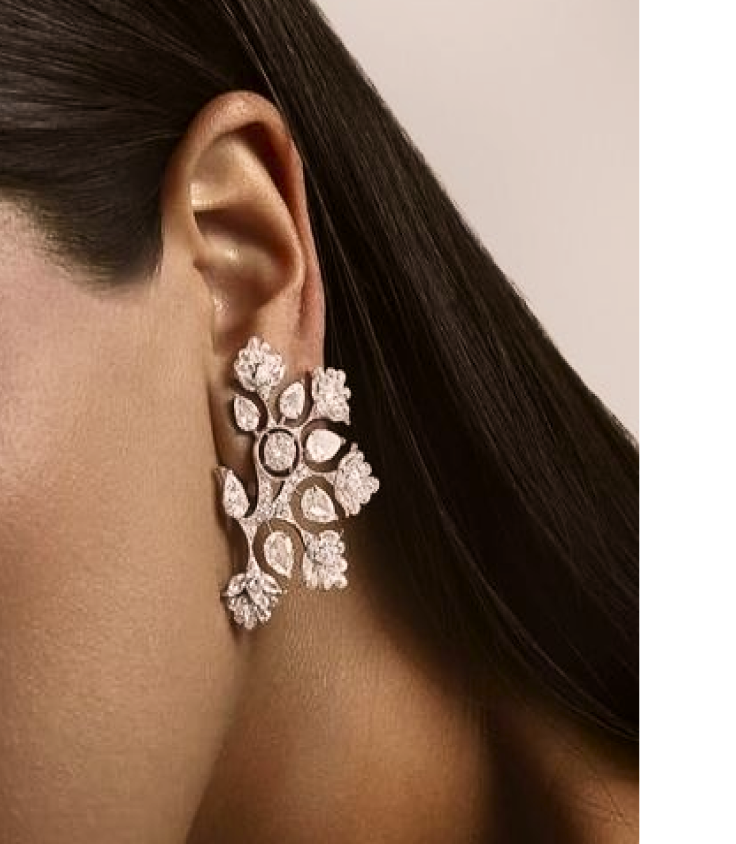
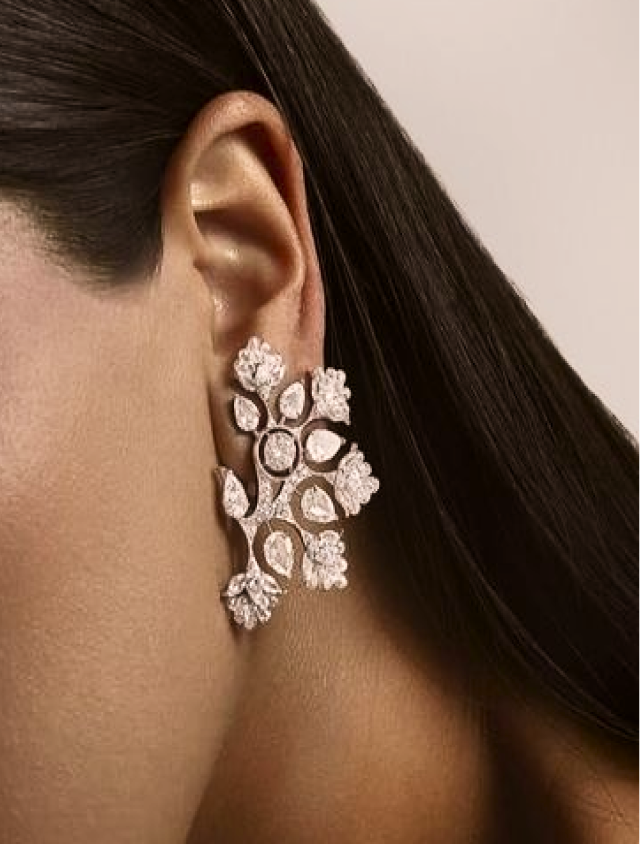
UI fixes

diff --git a/web/src/features/products/components/detail/ProductDetailSidebar.tsx b/web/src/features/products/components/detail/ProductDetailSidebar.tsx
@@ -32,6 +32,7 @@ import PlusIcon from "@/assets/Icons/PlusIcon";
 import VanIcon from "@/assets/Icons/VanIcon";
 import StoreIcon from "@/assets/Icons/StoreIcon";
 import Reveal from "@/shared/Animation/Reveal";
+import ProductDetailAccordions from "./ProductDetailAccordions";
 
 type ProductDetailSidebarProps = {
   product: Product;
@@ -60,7 +61,6 @@ const ProductDetailSidebar = ({
   const [isDeliveryStoreOpen, setIsDeliveryStoreOpen] = useState(false);
   const [isGift, setIsGift] = useState(false);
   const [zipCode, setZipCode] = useState("122002");
-  const [openAccordion, setOpenAccordion] = useState<string | null>(null);
   const [isVideoCallOpen, setIsVideoCallOpen] = useState(false);
   const [isTryAtHomeOpen, setIsTryAtHomeOpen] = useState(false);
   const [isPersonaliseOpen, setIsPersonaliseOpen] = useState(false);
@@ -68,10 +68,6 @@ const ProductDetailSidebar = ({
   const wishlisted = isWishlisted(product.id);
 
   const activeMetal = content.metalColors.find((color) => color.id === selectedMetal);
-
-  const toggleAccordion = (id: string) => {
-    setOpenAccordion((current) => (current === id ? null : id));
-  };
 
   const purchaseSection = (
     <div className="flex flex-col gap-40 px-4 pt-8 md:pt-6 md:px-0 lg:pt-0">
@@ -310,53 +306,7 @@ const ProductDetailSidebar = ({
         </div>
       </section>
 
-      <section aria-label="Product information" className="flex flex-col gap-3">
-        {content.accordions.map((accordion) => {
-          const isOpen = openAccordion === accordion.id;
-
-          return (
-            <div key={accordion.id} className="flex flex-col lg:gap-3 gap-2">
-              <Reveal as="button" direction="up"
-                type="button"
-                aria-expanded={isOpen}
-                onClick={() => toggleAccordion(accordion.id)}
-                className="flex lg:h-14 h-[40px] items-center justify-between text-left"
-              >
-                <span className="font-gill lg:text-2xl text-xl font-normal leading-110 text-darkblack">
-                  {accordion.title}
-                </span>
-                {isOpen ? (
-                  <span className="inline-flex size-[32px] shrink-0 items-center justify-center p-[6px]" aria-hidden>
-                    <Image
-                      src="/images/products/pdp/accordion-minus.svg"
-                      alt=""
-                      width={12}
-                      height={12}
-                      className="size-[12px] object-contain"
-                    />
-                  </span>
-                ) : (
-                  <span className="inline-flex size-[32px] shrink-0 items-center justify-center p-[6px]" aria-hidden>
-                    <Image
-                      src="/images/products/pdp/accordion-plus.svg"
-                      alt=""
-                      width={12}
-                      height={12}
-                      className="size-[12px] object-contain"
-                    />
-                  </span>
-                )}
-              </Reveal>
-              {isOpen ? (
-                <Reveal as="p" direction="up" className="pb-3 font-gill text-base font-light leading-110 text-neutral500">
-                  {accordion.content}
-                </Reveal>
-              ) : null}
-              <Reveal direction="up" className="h-px bg-neutral300" aria-hidden />
-            </div>
-          );
-        })}
-      </section>
+      <ProductDetailAccordions items={content.accordions} />
 
       <section
         aria-label="Personalisation"

diff --git a/web/src/shared/Animation/Reveal.tsx b/web/src/shared/Animation/Reveal.tsx
@@ -3,6 +3,8 @@
 import {
     ComponentPropsWithoutRef,
     ElementType,
+    useMemo,
+    type ComponentType,
 } from "react";
 import { motion } from "motion/react";
 
@@ -20,6 +22,18 @@ type RevealProps<T extends ElementType = "div"> = {
     ease?: "linear" | "easeIn" | "easeOut" | "easeInOut";
 } & ComponentPropsWithoutRef<T>;
 
+// Cache motion wrappers so accordion/state updates don't remount siblings.
+const motionComponentCache = new Map<ElementType, ComponentType<Record<string, unknown>>>();
+
+function getMotionComponent(tag: ElementType) {
+    const cached = motionComponentCache.get(tag);
+    if (cached) return cached;
+
+    const created = motion.create(tag) as ComponentType<Record<string, unknown>>;
+    motionComponentCache.set(tag, created);
+    return created;
+}
+
 export default function Reveal<T extends ElementType = "div">({
     as,
     direction = "up",
@@ -33,7 +47,8 @@ export default function Reveal<T extends ElementType = "div">({
     children,
     ...props
 }: RevealProps<T>) {
-    const Component = motion.create(as || "div");
+    const tag = as || "div";
+    const Component = useMemo(() => getMotionComponent(tag), [tag]);
 
     const initial = {
         opacity: 0,
@@ -75,76 +90,3 @@ export default function Reveal<T extends ElementType = "div">({
         </Component>
     );
 }
-
-// "use client";
-
-// import { motion } from "motion/react";
-// import {
-//     ComponentPropsWithoutRef,
-//     ElementType,
-// } from "react";
-
-// type Direction = "up" | "down" | "left" | "right";
-
-// type RevealProps<T extends ElementType> = {
-//     as?: T;
-//     direction?: Direction;
-//     delay?: number;
-//     duration?: number;
-//     distance?: number;
-//     once?: boolean;
-//     amount?: number;
-// } & ComponentPropsWithoutRef<T>;
-
-// export default function Reveal<T extends ElementType = "div">({
-//     as,
-//     direction = "up",
-//     delay = 0,
-//     duration = 0.8,
-//     distance = 40,
-//     once = true,
-//     amount = 0.2,
-//     children,
-//     ...props
-// }: RevealProps<T>) {
-//     const Component = motion.create(as || "div");
-
-//     const initial = {
-//         opacity: 0,
-//         x:
-//             direction === "left"
-//                 ? -distance
-//                 : direction === "right"
-//                     ? distance
-//                     : 0,
-//         y:
-//             direction === "up"
-//                 ? distance
-//                 : direction === "down"
-//                     ? -distance
-//                     : 0,
-//     };
-
-//     return (
-//         <Component
-//             initial={initial}
-//             whileInView={{
-//                 opacity: 1,
-//                 x: 0,
-//                 y: 0,
-//             }}
-//             viewport={{
-//                 once,
-//                 amount,
-//             }}
-//             transition={{
-//                 duration,
-//                 delay,
-//                 ease: "easeInOut",
-//             }}
-//             {...props}
-//         >
-//             {children}
-//         </Component>
-//     );
-// }

diff --git a/web/src/features/products/components/detail/ProductDetailAccordions.tsx b/web/src/features/products/components/detail/ProductDetailAccordions.tsx
@@ -1,0 +1,75 @@
+"use client";
+
+import { useState } from "react";
+import Image from "next/image";
+import { cn } from "@/shared/utils/cn";
+import type { ProductDetailAccordion } from "@/features/products/types/productDetail";
+
+type ProductDetailAccordionsProps = {
+  items: ProductDetailAccordion[];
+};
+
+const ProductDetailAccordions = ({ items }: ProductDetailAccordionsProps) => {
+  const [openAccordion, setOpenAccordion] = useState<string | null>(null);
+
+  const toggleAccordion = (id: string) => {
+    setOpenAccordion((current) => (current === id ? null : id));
+  };
+
+  return (
+    <section aria-label="Product information" className="flex flex-col gap-3">
+      {items.map((accordion) => {
+        const isOpen = openAccordion === accordion.id;
+
+        return (
+          <div key={accordion.id} className="flex flex-col">
+            <button
+              type="button"
+              aria-expanded={isOpen}
+              aria-controls={`product-accordion-${accordion.id}`}
+              id={`product-accordion-trigger-${accordion.id}`}
+              onClick={() => toggleAccordion(accordion.id)}
+              className="flex h-[40px] items-center justify-between text-left lg:h-14"
+            >
+              <span className="font-gill text-xl font-normal leading-110 text-darkblack lg:text-2xl">
+                {accordion.title}
+              </span>
+              <span className="inline-flex size-[32px] shrink-0 items-center justify-center p-[6px]" aria-hidden>
+                <Image
+                  src={
+                    isOpen
+                      ? "/images/products/pdp/accordion-minus.svg"
+                      : "/images/products/pdp/accordion-plus.svg"
+                  }
+                  alt=""
+                  width={12}
+                  height={12}
+                  className="size-[12px] object-contain"
+                />
+              </span>
+            </button>
+            <div
+              id={`product-accordion-${accordion.id}`}
+              role="region"
+              aria-labelledby={`product-accordion-trigger-${accordion.id}`}
+              aria-hidden={!isOpen}
+              className={cn(
+                "grid min-h-0 transition-[grid-template-rows,opacity] duration-500 ease-in-out",
+                isOpen ? "grid-rows-[1fr] opacity-100" : "grid-rows-[0fr] opacity-0",
+              )}
+            >
+              <div className="overflow-hidden">
+                <p className="pb-3 pt-2 font-gill text-base font-light leading-110 text-neutral500 lg:pt-3">
+                  {accordion.content}
+                </p>
+              </div>
+            </div>
+            <div className="h-px bg-neutral300" aria-hidden />
+          </div>
+        );
+      })}
+    </section>
+  );
+};
+
+export default ProductDetailAccordions;

diff --git a/web/src/features/cms/components/home/SectionNav.tsx b/web/src/features/cms/components/home/SectionNav.tsx
@@ -39,7 +39,7 @@ const SectionNav = () => {
   return (
     <div
       className={cn(
-        "group/nav fixed left-0 top-1/2 z-50 hidden -translate-y-1/2 pl-40 md:block",
+        "group/nav fixed bottom-40 left-0 z-50 hidden pl-40 md:block",
         "transition-all duration-500 ease-out will-change-transform",
         isVisible
           ? "translate-x-0 opacity-100"
@@ -48,7 +48,7 @@ const SectionNav = () => {
     >
       <div
         aria-hidden
-        className="pointer-events-none absolute left-0 top-1/2 h-[min(800px,100vh)] w-[min(720px,18vw)] -translate-y-1/2"
+        className="pointer-events-none absolute bottom-0 left-0 h-[min(800px,100vh)] w-[min(720px,18vw)]"
       >
         <Image
           src={NAV_GRADIENT}
